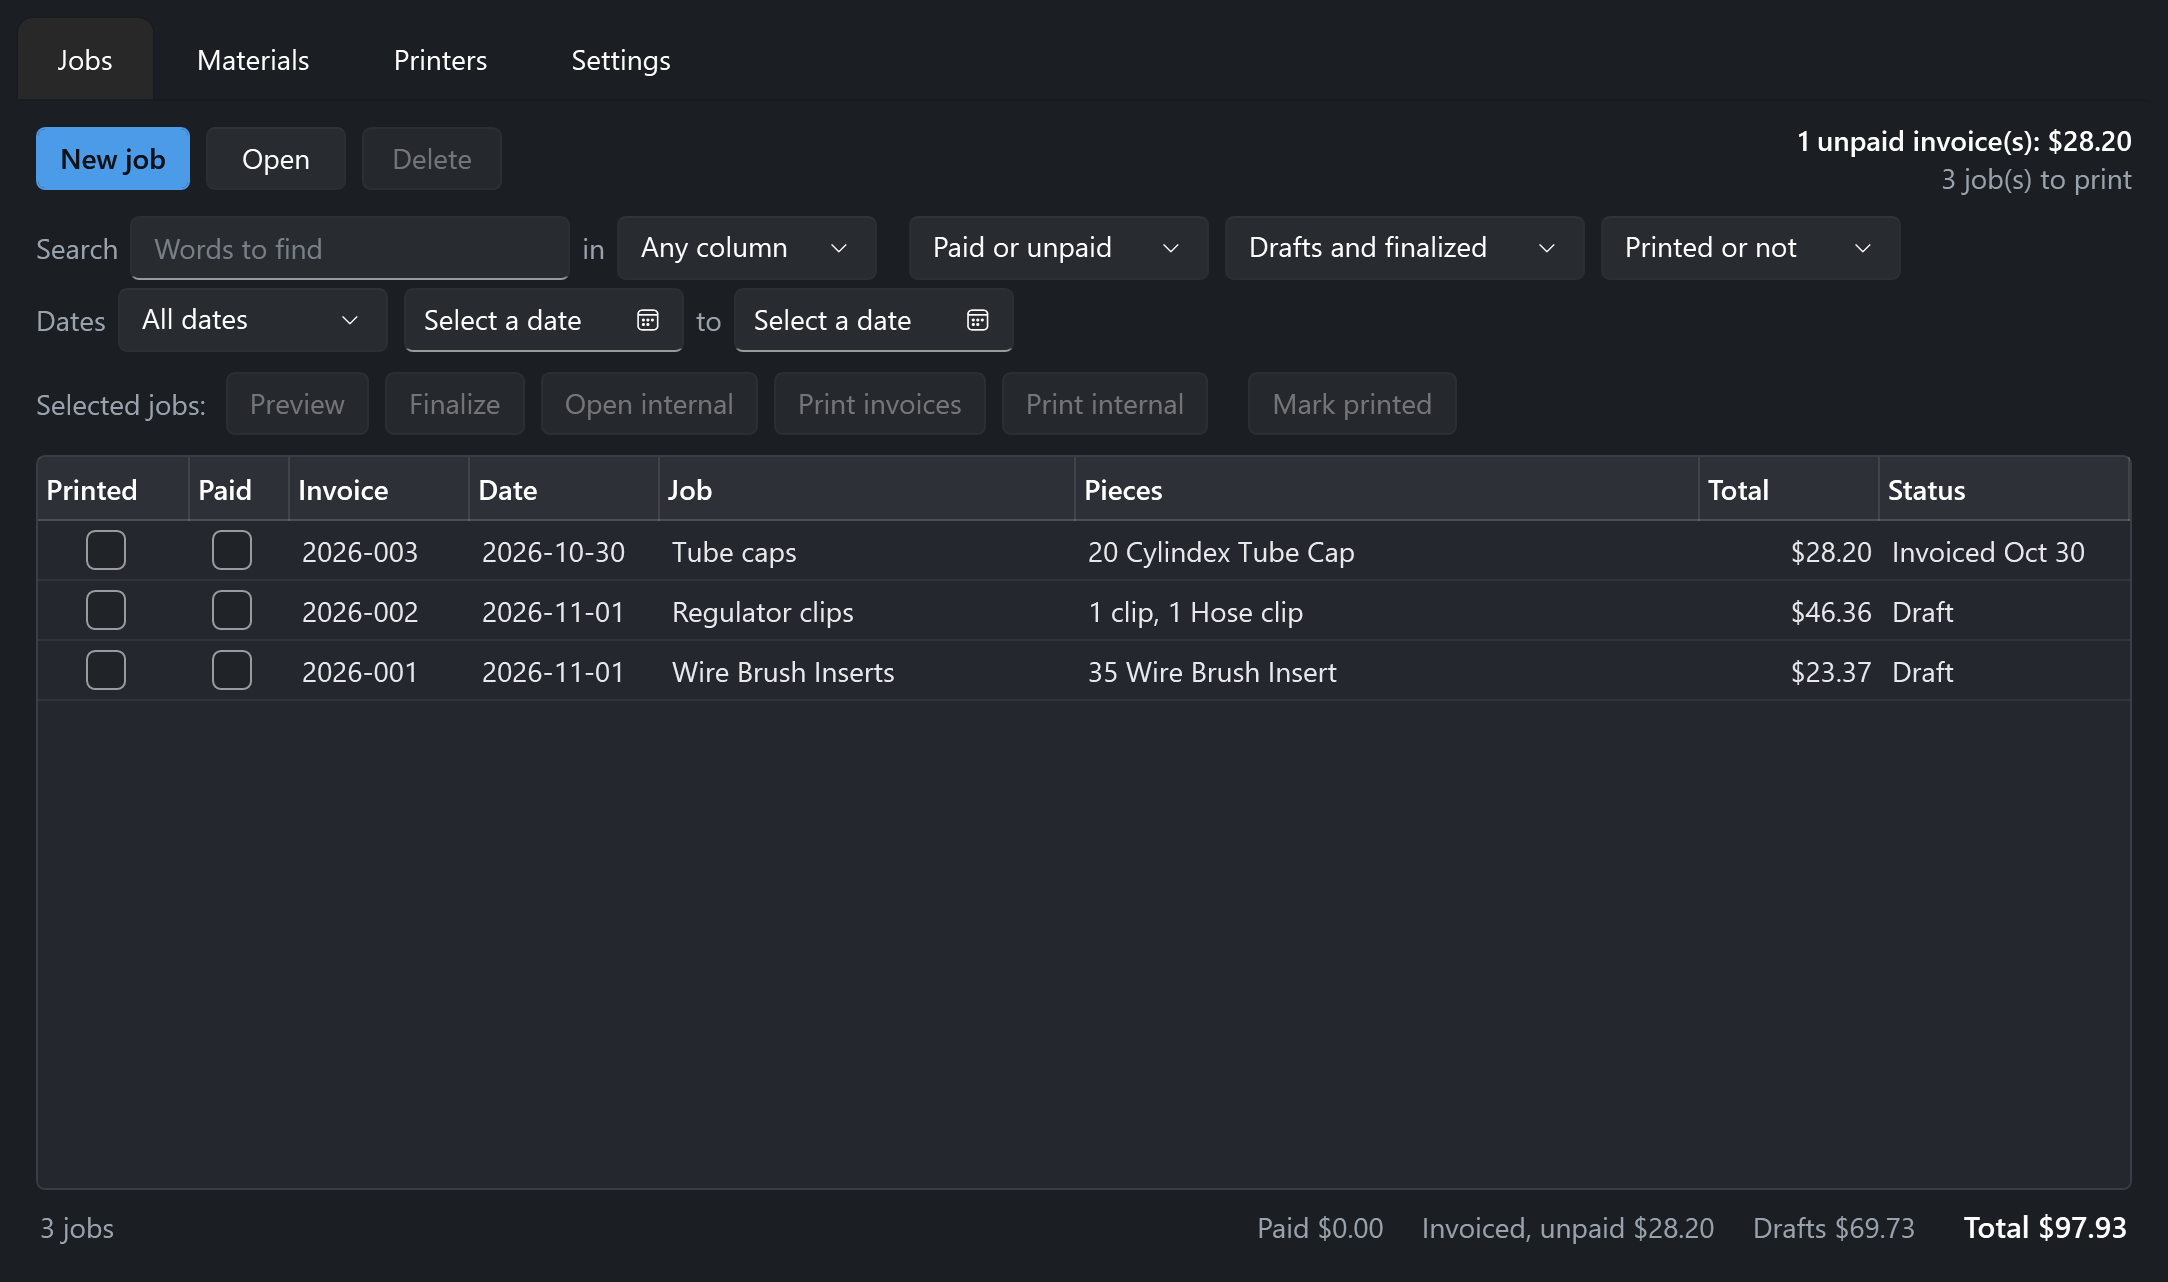
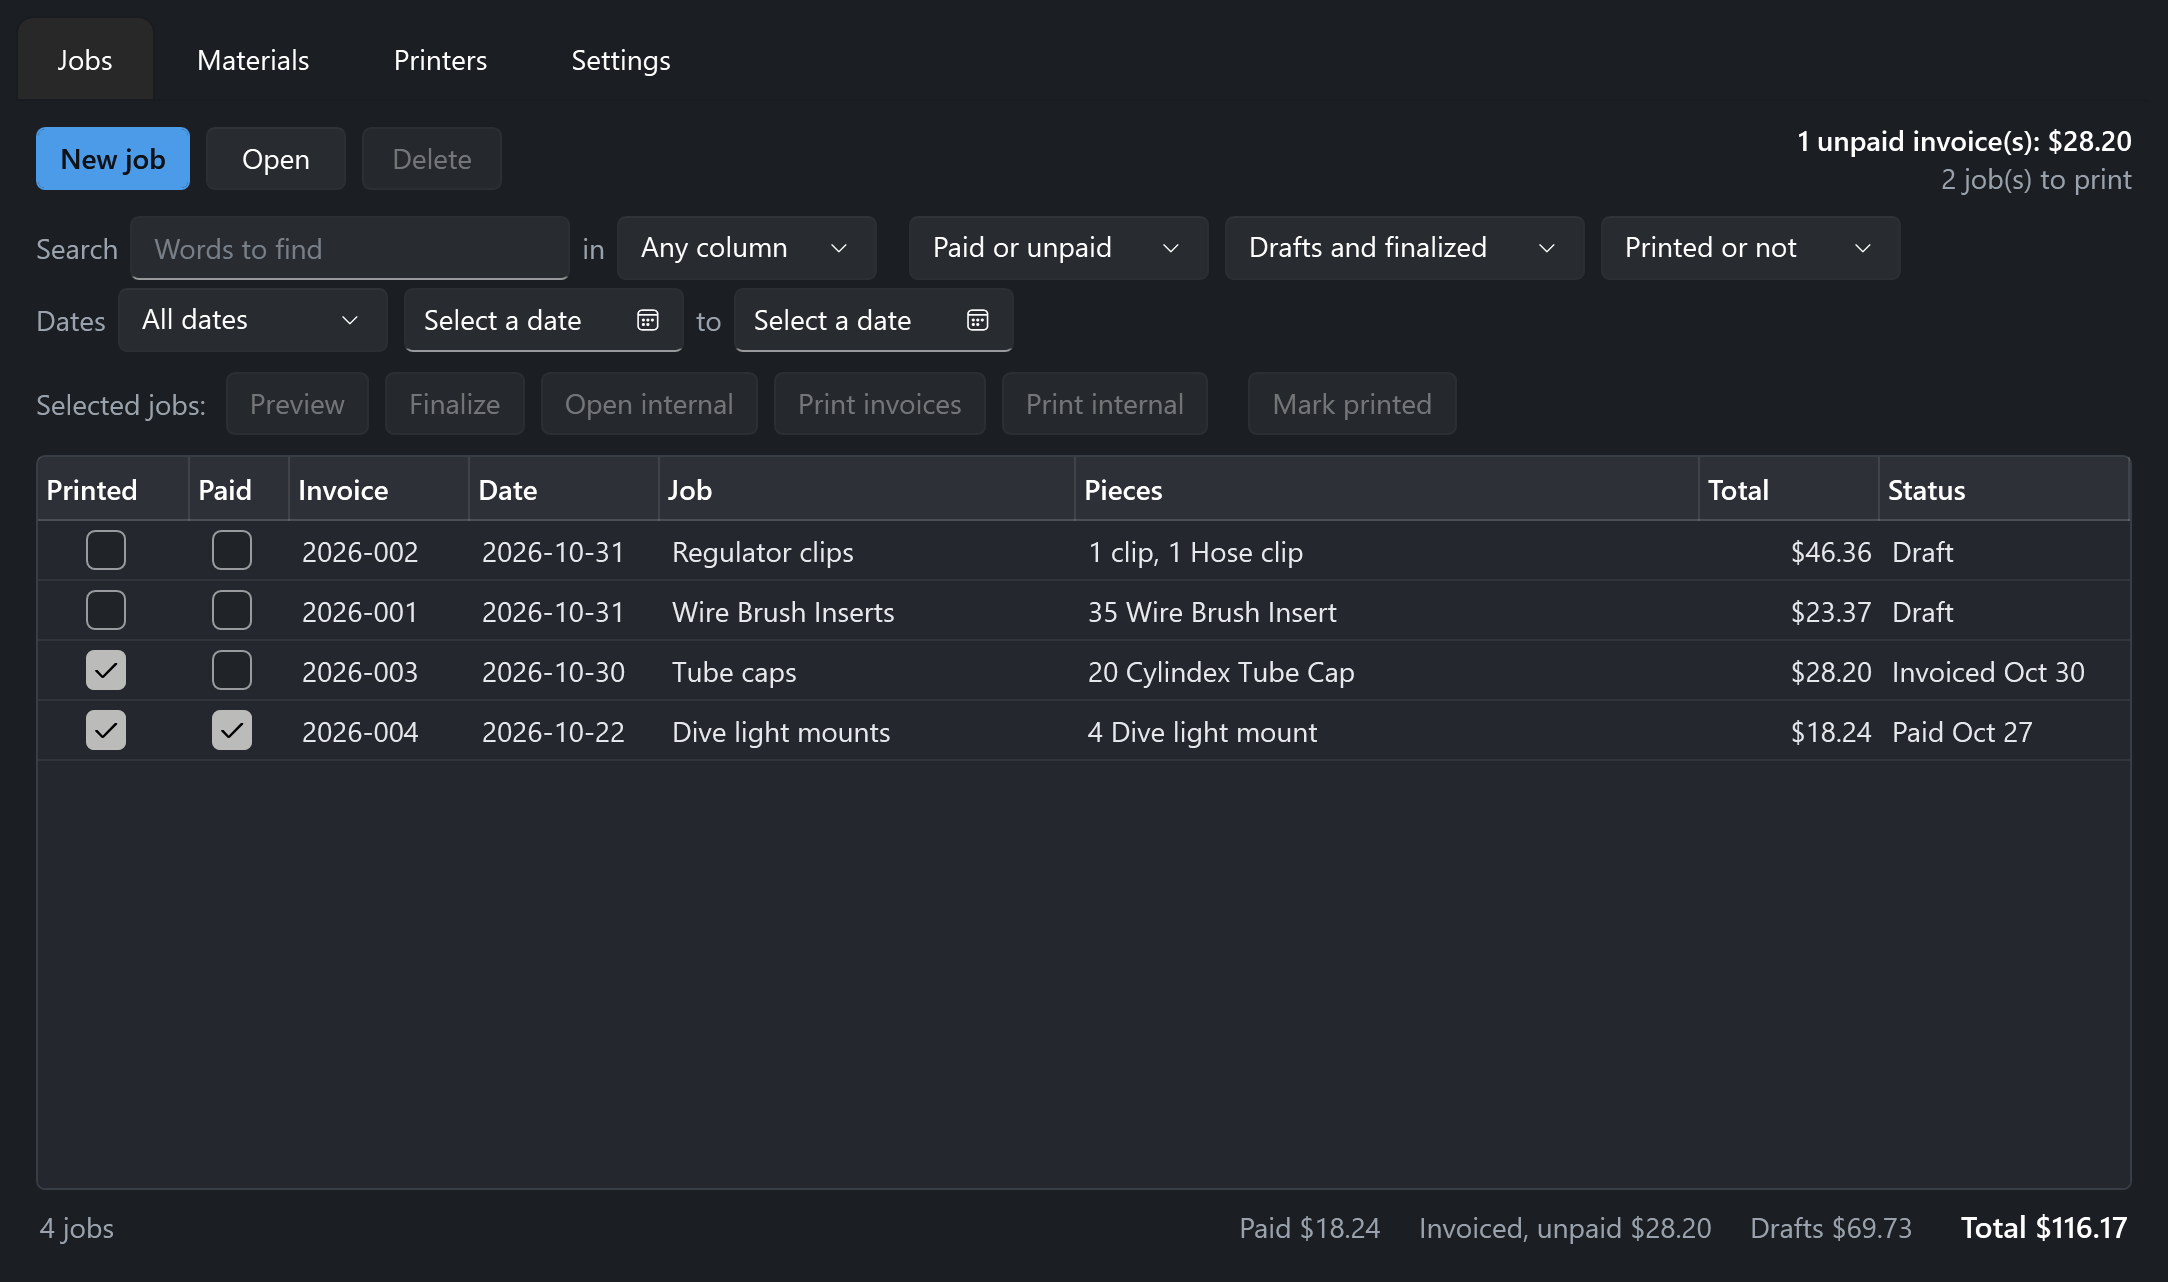
feat(01-01): job list picture shows draft, invoiced and paid jobs with fixed dates
- SampleShop gets a fourth finalized and paid job and fixed dates on every job
- ReadmeImageTests asserts row order, invoices, dates and statuses before writing
- ScreenTests counts updated for four jobs

diff --git a/tests/PrintInvoicer.UiTests/SampleShop.cs b/tests/PrintInvoicer.UiTests/SampleShop.cs
@@ -10,7 +10,8 @@ namespace PrintInvoicer.UiTests;
 
 /// <summary>
 /// A throwaway database with one of everything: an FDM job from a Bambu file, a resin job from a .goo file, a plate
-/// typed in by hand, extra costs, and a finalized invoice. It becomes App.Db for the test that made it.
+/// typed in by hand, extra costs, a finalized invoice and a paid one. Every date is fixed, so the README pictures
+/// (ReadmeImageTests) come out the same on every run. It becomes App.Db for the test that made it.
 /// </summary>
 internal sealed class SampleShop : IDisposable
 {
@@ -19,6 +20,7 @@ internal sealed class SampleShop : IDisposable
     public Job FdmJob { get; }
     public Job ResinJob { get; }
     public Job FinalizedJob { get; }
+    public Job PaidJob { get; }
 
     public SampleShop()
     {
@@ -40,7 +42,8 @@ internal sealed class SampleShop : IDisposable
         Db.SaveExtraCost(new ExtraCost { Name = "IPA and gloves", Cost = 0.75m, Basis = CostBasis.PerPrint, AppliesTo = PrintTechnology.Resin });
         Db.SaveExtraCost(new ExtraCost { Name = "Wash and cure", Cost = 5m, Basis = CostBasis.PerJob, AppliesTo = PrintTechnology.Resin });
 
-        FdmJob = new Job { Title = "Wire Brush Inserts", Customer = "Harbor Dive Shop", InvoiceNumber = "2026-001", Notes = "Sample notes" };
+        FdmJob = new Job { Title = "Wire Brush Inserts", Customer = "Harbor Dive Shop", InvoiceNumber = "2026-001",
+            CreatedDate = new DateTime(2026, 10, 31), Notes = "Black PLA supplied by Harbor Dive Shop." };
         JobBuilder.AddFile(FdmJob, BambuFileReader.Read(TestFiles.Fixture("Wire_Brush_Insert.gcode.3mf")), Db.GetFilaments(),
             Db.GetMappings(), printerId: fdm.Id);
         // A friends-and-family discount, and the customer supplying the main color.
@@ -50,7 +53,8 @@ internal sealed class SampleShop : IDisposable
         FdmJob.Parts[0].Plates[0].Filaments[^1].CustomerSupplied = true;
         Db.SaveJob(FdmJob);
 
-        ResinJob = new Job { Title = "Regulator clips", Customer = "Harbor Dive Shop", InvoiceNumber = "2026-002" };
+        ResinJob = new Job { Title = "Regulator clips", Customer = "Harbor Dive Shop", InvoiceNumber = "2026-002",
+            CreatedDate = new DateTime(2026, 10, 31) };
         JobBuilder.AddFile(ResinJob, GooFileReader.Parse(Path.Combine(Folder, "clip.goo"), TestFiles.GooHeader(profile: "Standard resin")),
             [], Db.GetMappings(), Db.GetResins(), resin.Id);
         var manual = JobBuilder.ManualPlate(resin);
@@ -60,11 +64,26 @@ internal sealed class SampleShop : IDisposable
         ResinJob.Parts.Add(new JobPart { Name = "Hose clip", Plates = { manual } });
         Db.SaveJob(ResinJob);
 
-        FinalizedJob = new Job { Title = "Tube caps", Customer = "Harbor Dive Shop", InvoiceNumber = "2026-003" };
+        FinalizedJob = new Job { Title = "Tube caps", Customer = "Harbor Dive Shop", InvoiceNumber = "2026-003",
+            CreatedDate = new DateTime(2026, 10, 29), Printed = true, PrintedDate = new DateTime(2026, 10, 30) };
         JobBuilder.AddFile(FinalizedJob, BambuFileReader.Read(TestFiles.Fixture("Cylindex_Tube_Cap.gcode.3mf")), Db.GetFilaments(),
             Db.GetMappings(), printerId: fdm.Id);
         InvoiceActions.Finalize(Db, FinalizedJob, new DateTime(2026, 10, 30), redate: false);
         Db.SaveJob(FinalizedJob);
+
+        // An older job, printed, invoiced and paid, so the job list shows every state.
+        PaidJob = new Job { Title = "Dive light mounts", Customer = "Harbor Dive Shop", InvoiceNumber = "2026-004",
+            CreatedDate = new DateTime(2026, 10, 20), Printed = true, PrintedDate = new DateTime(2026, 10, 21) };
+        var mount = JobBuilder.ManualPlate(fdm);
+        mount.SlicedSeconds = 9000;
+        mount.PartsPerPlate = 4;
+        mount.Filaments[0].SlicedGrams = 86m;
+        mount.Filaments[0].FilamentId = Db.GetFilaments().First().Id;
+        PaidJob.Parts.Add(new JobPart { Name = "Dive light mount", Plates = { mount } });
+        InvoiceActions.Finalize(Db, PaidJob, new DateTime(2026, 10, 22), redate: false);
+        PaidJob.Paid = true;
+        PaidJob.PaidDate = new DateTime(2026, 10, 27);
+        Db.SaveJob(PaidJob);
 
         App.App.Db = Db;
     }

diff --git a/tests/PrintInvoicer.UiTests/ScreenTests.cs b/tests/PrintInvoicer.UiTests/ScreenTests.cs
@@ -54,7 +54,7 @@ public sealed class ScreenTests : IDisposable
             main.Height = names[i] == "settings" ? 1150 : 680;
             WpfHost.Screenshot(main, "main-" + names[i]);
         }
-        Assert.Equal(3, main.ViewModel.Jobs.Count);
+        Assert.Equal(4, main.ViewModel.Jobs.Count);
         main.Close();
         NoBindingErrors("The main window");
     });
@@ -69,13 +69,15 @@ public sealed class ScreenTests : IDisposable
         Assert.Equal("Total " + Format.Money(all), vm.VisibleTotal);
 
         vm.StageFilter = StageFilter.Finalized;
-        Assert.Equal("Showing 1 of 3 jobs", vm.VisibleCount);
-        var finalized = _shop.Reload(_shop.FinalizedJob);
-        Assert.Equal("Total " + Format.Money(PricingCalculator.Calculate(finalized, PriceSnapshot.For(finalized, book)).Total), vm.VisibleTotal);
+        Assert.Equal("Showing 2 of 4 jobs", vm.VisibleCount);
+        decimal sum = 0;
+        foreach (var sent in new[] { _shop.Reload(_shop.FinalizedJob), _shop.Reload(_shop.PaidJob) })
+            sum += PricingCalculator.Calculate(sent, PriceSnapshot.For(sent, book)).Total;
+        Assert.Equal("Total " + Format.Money(sum), vm.VisibleTotal);
 
         vm.ClearFiltersCommand.Execute(null);
         vm.Keywords = "clips";
-        Assert.Equal("Showing 1 of 3 jobs", vm.VisibleCount);
+        Assert.Equal("Showing 1 of 4 jobs", vm.VisibleCount);
         main.Close();
     });
 

diff --git a/tests/PrintInvoicer.UiTests/ReadmeImageTests.cs b/tests/PrintInvoicer.UiTests/ReadmeImageTests.cs
@@ -63,6 +63,18 @@ public sealed class ReadmeImageTests : IDisposable
         main.Width = 1100;
         main.Height = 680;
         WpfHost.Settle(main);
+
+        // The picture must show every state in a fixed order, or it is not worth committing.
+        var rows = main.ViewModel.Jobs;
+        string[] expectedTitles = ["Regulator clips", "Wire Brush Inserts", "Tube caps", "Dive light mounts"];
+        Assert.Equal(expectedTitles, rows.Select(r => r.Title));
+        string[] expectedInvoices = ["2026-002", "2026-001", "2026-003", "2026-004"];
+        Assert.Equal(expectedInvoices, rows.Select(r => r.Invoice));
+        string[] expectedDates = ["2026-10-31", "2026-10-31", "2026-10-30", "2026-10-22"];
+        Assert.Equal(expectedDates, rows.Select(r => r.Date));
+        string[] expectedStatuses = ["Draft", "Draft", "Invoiced Oct 30", "Paid Oct 27"];
+        Assert.Equal(expectedStatuses, rows.Select(r => r.Status));
+
         byte[] png = WpfHost.RenderPng(main, 2);
         main.Close();
         Assert.Empty(WpfHost.TakeBindingErrors());
